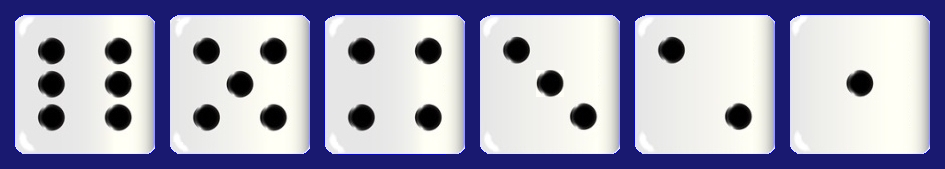
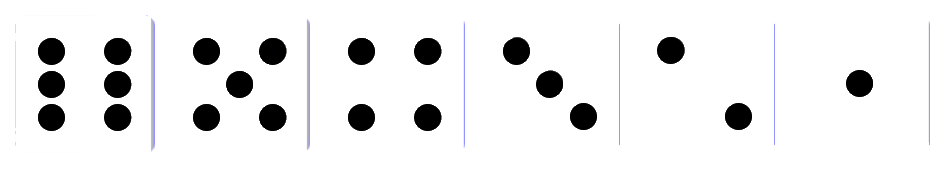
Modification de jeu.js en affichage.js + modulopoly_base.html en modulopoly.html + nouveau design pour les dés

diff --git a/Monopoly.html b/Monopoly.html
@@ -221,7 +221,7 @@ Guilain Mbayo & David Rossy - SI-CA1a - juin 2019
 <script type="text/javascript" src="scripts/jquery-3.4.1.min.js"></script>
 <script type="text/javascript" src="scripts/varGlobal.js"></script>
 <script type="text/javascript" src="scripts/anim.js"></script>
-<script type="text/javascript" src="scripts/jeu.js"></script>
+<script type="text/javascript" src="scripts/affichage.js"></script>
 <script type="text/javascript" src="scripts/joueurs.js"></script>
 <script type="text/javascript" src="scripts/jeu-html.js"></script>
 <script type="text/javascript" src="scripts/question.js"></script>

diff --git a/scripts/gameloop.js b/scripts/gameloop.js
@@ -20,14 +20,6 @@
 // SI-CA1a - juin 2019 - CPNV
 // *****************************************************************************
 
-/*todo
-*  - Attendre que le dé soit lancé.
-*  - Actualiser l'affichage des éléments sur le plateau
-*  - Regarder l'effet qu'a la case sur la quel le joueur se trouve actuellement
-*  - appliquer l'effet
-*  - joueur suivant
-*  - Recommencer
-* */
 //permet de vérifier si la réponse à la question à été validée
 $("#btn-verif").click(function () {
     $(this).data('clicked', true);

diff --git a/scripts/joueurs.js b/scripts/joueurs.js
@@ -21,8 +21,6 @@
 // SI-CA1a - juin 2019 - CPNV
 // *****************************************************************************
 
-//todo Ajouter les méthodes tirer une carte chance et réussir un exam
-
 //Fonction pour créer un tableau objet joueur, n étant le nombre de joueurs
 function maker(n) {
     var arr = [];
